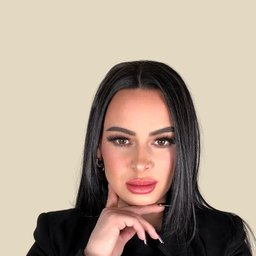
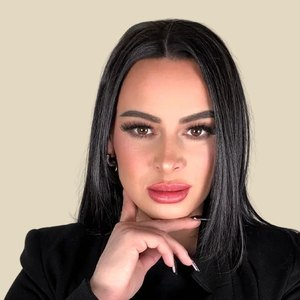
Alapító-portré feljebb húzva és nagyobb kör (#74)
* Add QuietStack landing page and GitHub Pages config

Set up the quietstack.entropybreakers.com subdomain: a Hungarian-language
landing page for the AI DFY systems offering, plus the CNAME file that
binds the custom domain to GitHub Pages.

https://claude.ai/code/session_01VhxijwSCRXbHAtKTGhnVxw

* Build V1 Hungarian landing page for coach audience

Rebuild the landing page from the V1 marketing spec: light premium
design (serif headings, warm beige accent), Bettina's founder story,
three pricing tiers, ROI calculator, founding-member section, about,
and FAQ. All CTAs route to the consultation booking calendar.

https://claude.ai/code/session_01VhxijwSCRXbHAtKTGhnVxw

* Polish copy, drop Austrian legal terms, add high-tech variant

Refine the Hungarian copy for natural phrasing and remove anglicisms.
Replace Austrian legal references (Kleinunternehmerin, e.U., Impressum,
Datenschutz) with Hungarian equivalents — the offering targets the
Hungarian market only. Rework the money-back guarantee into a quality
guarantee (no refund; the system is refined until it works) to avoid
the unfair refund-and-keep-the-system case.

Add hightech.html: a dark, high-tech design variant with identical
content so the visual direction can be compared side by side.

https://claude.ai/code/session_01VhxijwSCRXbHAtKTGhnVxw

* Add modern interactive touches, drop high-tech variant

Keep the calm premium design but add subtle, capability-signalling
[…]

diff --git a/index.html b/index.html
@@ -197,7 +197,7 @@
 
     .hero-by { display: flex; align-items: center; gap: 12px; margin-bottom: 26px; }
     .hero-by-photo {
-      width: 70px; height: 70px; border-radius: 50%; flex-shrink: 0; overflow: hidden;
+      width: 88px; height: 88px; border-radius: 50%; flex-shrink: 0; overflow: hidden;
       background: linear-gradient(150deg, #e3d8c2, #cdb98f);
       border: 2px solid var(--surface); box-shadow: 0 5px 16px -5px rgba(60,45,20,0.45);
     }